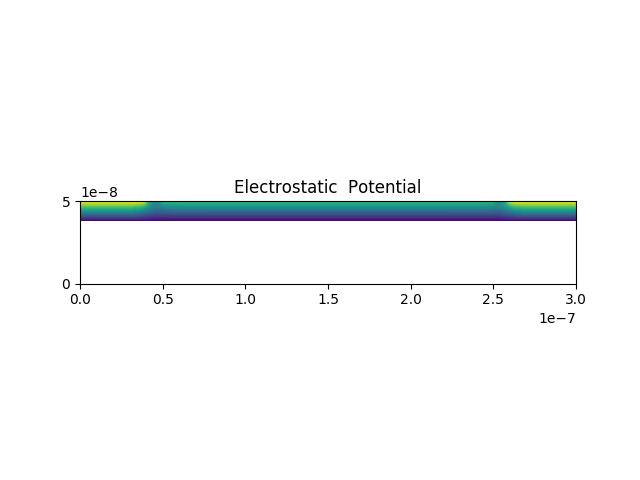
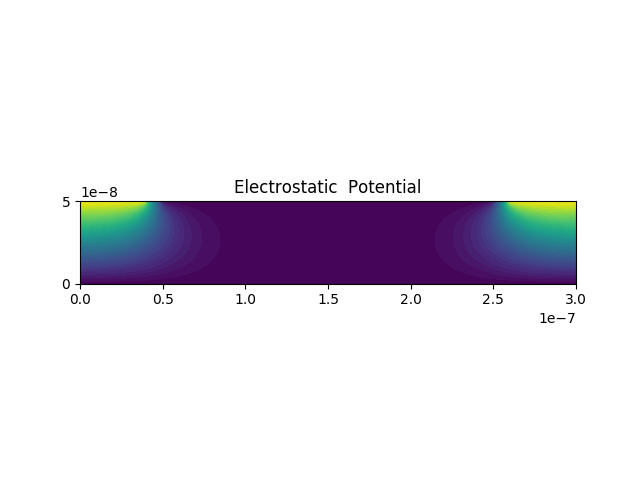
improve Readme and inversion layer potential

Changed region(s): [[0.125, 0.4062, 0.9062, 0.5938]]

diff --git a/schrodinger_poisson/poisson_bcs.py b/schrodinger_poisson/poisson_bcs.py
@@ -24,11 +24,13 @@ def poissonSolver(mesh, dopant, device, cons):
 
     class Channel(SubDomain):
         def inside(self, x, on_boundary):
-            return between(x[1], (device.oxyde, device.oxyde + device.channel))
+            return between(x[1], (0, device.yfi))
 
+    """
     class BottomOxyde(SubDomain):
         def inside(self, x, on_boundary):
             return between(x[1], (0, device.oxyde))
+    """
 
     """
     class Substrate(SubDomain):
@@ -38,66 +40,68 @@ def poissonSolver(mesh, dopant, device, cons):
 
     class Gate(SubDomain):
         def inside(self, x, on_boundary):
-            return near(x[1], device.yfi) and on_boundary and (device.gate_ini <= x[0] and x[0] <= device.gate_fin)
+            return near(x[1], device.yfi) and (device.gate_ini <= x[0] and x[0] <= device.gate_fin)
 
-    """
     class Drain(SubDomain):
         def inside(self, x, on_boundary):
-            return near(x[0], 0) and on_boundary and (device.oxyde < x[1] and x[1] <= (device.channel + device.oxyde))
+            return near(x[0], 0) and (0 < x[1] and x[1] <= device.yfi)
     """
-
     class Drain(SubDomain):
         def inside(self, x, on_boundary):
             return near(x[1], device.yfi) and on_boundary and (0 < x[0] and x[0] <= device.src)
-
     """
+
     class Source(SubDomain):
         def inside(self, x, on_boundary):
-            return near(x[0], device.xfi) and on_boundary and (device.oxyde < x[1] and x[1] <= (device.channel + device.oxyde))
-    """
+            return near(x[0], device.xfi) and (0 < x[1] and x[1] <= device.yfi)
 
+    """
     class Source(SubDomain):
         def inside(self, x, on_boundary):
             return near(x[1], device.yfi) and on_boundary and (device.drain <= x[0] and x[0] < device.xfi)
+    """
 
     class Bottom(SubDomain):
         def inside(self, x, on_boundary):
             return near(x[1], 0) and on_boundary
 
+    """
     class OxydeSemiconductor(SubDomain):
         def inside(self, x, on_boundary):
             return near(x[1], device.oxyde)
-
     """
+
     class Nuemann(SubDomain):
         def inside(self, x, on_boundary):
-            return on_boundary and ((0 <= x[0] and x[0] < device.gate_ini) or (device.gate_fin < x[0] and x[0] <= device.xfi)) and near(x[1], 0)
+            return on_boundary and ((0 <= x[0] and x[0] < device.gate_ini) or (device.gate_fin < x[0] and x[0] <= device.xfi)) and near(x[1], device.yfi)
     """
-
     class Nuemann(SubDomain):
         def inside(self, x, on_boundary):
             return near(x[0], 0) or near(x[0], device.xfi) or (device.src < x[0] and x[0] < device.gate_ini and near(x[1], device.yfi)) or (device.gate_fin < x[0] and x[0] < device.drain and near(x[1], device.yfi))
+    """
 
+    """
     class OxydeSide(SubDomain):
         def inside(self, x, on_boundary):
             return on_boundary and (0 < x[1] and x[1] < device.oxyde)
+    """
 
     channel = Channel()
-    bottomoxyde = BottomOxyde()
+    #bottomoxyde = BottomOxyde()
     gate = Gate()
     drain = Drain()
     source = Source()
     bottom = Bottom()
-    oxydesemiconductor = OxydeSemiconductor()
+    #oxydesemiconductor = OxydeSemiconductor()
     nuemann = Nuemann()
-    oxydeside = OxydeSide()
+    #oxydeside = OxydeSide()
     # other = Other()
 
     # Initialize mesh function for interior domains
     domains = CellFunction("size_t", mesh)
     domains.set_all(0)
     channel.mark(domains, 1)
-    bottomoxyde.mark(domains, 2)
+    #bottomoxyde.mark(domains, 2)
 
     # Initialize mesh function for boundary domains
     boundaries = FacetFunction("size_t", mesh)
@@ -106,9 +110,9 @@ def poissonSolver(mesh, dopant, device, cons):
     drain.mark(boundaries, 2)
     source.mark(boundaries, 3)
     bottom.mark(boundaries, 4)
-    oxydesemiconductor.mark(boundaries, 5)
-    nuemann.mark(boundaries, 6)
-    oxydeside.mark(boundaries, 7)
+    #oxydesemiconductor.mark(boundaries, 5)
+    nuemann.mark(boundaries, 5)
+    #oxydeside.mark(boundaries, 7)
     #other.mark(boundaries, 5)
 
     V = FunctionSpace(mesh, 'CG', 1)
@@ -125,7 +129,7 @@ def poissonSolver(mesh, dopant, device, cons):
     u_bottom = Constant(u_bottom)
     
 
-    bc = [DirichletBC(V, u_gate, boundaries, 1) ,DirichletBC(V, u_drain, boundaries, 2),DirichletBC(V, u_source, boundaries, 3),  DirichletBC(V, u_bottom, boundaries, 5)]
+    bc = [DirichletBC(V, u_gate, boundaries, 1) ,DirichletBC(V, u_drain, boundaries, 2),DirichletBC(V, u_source, boundaries, 3),  DirichletBC(V, u_bottom, boundaries, 4)]
 
     # Define new measures associated with the interior domains and
     # exterior boundaries
@@ -159,9 +163,183 @@ def poissonSolver(mesh, dopant, device, cons):
     sio2_eps = 3.8
     y = Constant(2)
 
-    F = inner(ge_eps*grad(u), grad(v))*dx(1) + inner(sio2_eps*grad(u), grad(v))*dx(2) -zero*v*ds(4) -zero*v*ds(6) -zero*v*ds(7)
+    F = inner(ge_eps*grad(u), grad(v))*dx(1) -zero*v*ds(5)
 
-    L = cons.Q*y*v*dx(1) - cons.Q*y*v*dx(2)
+    L = cons.Q*y*v*dx(1)
+    # - ((eps * (u_gate - u)/ 10**-9))*v*ds(1)
+
+    # Compute solution
+    solve(F - L == 0, u, bc)
+    # solve(F == 0, u, bc)
+
+    u = interpolate(u, V)
+
+    plot(u, title = "Electrostatic  Potential")
+    plt.savefig("electrostatic_potential.png")
+
+    # Save solution in VTK format
+    file = File("poisson.pvd")
+    file << u
+
+    print("finish!!!!!!!!!!!!!!!")
+    
+
+    return u
+
+def poissonSolverTest(mesh, dopant, device, cons):
+
+    class Channel(SubDomain):
+        def inside(self, x, on_boundary):
+            return between(x[1], (0, device.yfi))
+
+    """
+    class BottomOxyde(SubDomain):
+        def inside(self, x, on_boundary):
+            return between(x[1], (0, device.oxyde))
+    """
+
+    """
+    class Substrate(SubDomain):
+        def inside(self, x, on_boundary):
+            return between(x[1], (device.channel+device.oxyde, device.yfi))
+    """
+
+    class Gate(SubDomain):
+        def inside(self, x, on_boundary):
+            return near(x[1], device.yfi) and (device.gate_ini <= x[0] and x[0] <= device.gate_fin)
+    """
+    class Drain(SubDomain):
+        def inside(self, x, on_boundary):
+            return near(x[0], 0) and (0 < x[1] and x[1] <= device.yfi)
+    """
+
+    class Source(SubDomain):
+        def inside(self, x, on_boundary):
+            return near(x[1], device.yfi) and on_boundary and (0 <= x[0] and x[0] <= device.src)
+
+    """
+    class Source(SubDomain):
+        def inside(self, x, on_boundary):
+            return near(x[0], device.xfi) and (0 < x[1] and x[1] <= device.yfi)
+    """
+
+    
+    class Drain(SubDomain):
+        def inside(self, x, on_boundary):
+            return near(x[1], device.yfi) and on_boundary and (device.drain <= x[0] and x[0] <= device.xfi)
+    
+
+    class Bottom(SubDomain):
+        def inside(self, x, on_boundary):
+            return near(x[1], 0) and on_boundary
+
+    """
+    class OxydeSemiconductor(SubDomain):
+        def inside(self, x, on_boundary):
+            return near(x[1], device.oxyde)
+    """
+
+    class Nuemann(SubDomain):
+        def inside(self, x, on_boundary):
+            return on_boundary and ((device.src < x[0] and x[0] < device.gate_ini) or (device.gate_fin < x[0] and x[0] < device.drain)) and near(x[1], device.yfi)
+
+    class Side(SubDomain):
+        def inside(self, x, on_boundary):
+            return on_boundary and (0 < x[0] and x[0] < device.yfi) and (near(x[0], device.xfi) or near(x[0] , 0))
+    """
+    class Nuemann(SubDomain):
+        def inside(self, x, on_boundary):
+            return near(x[0], 0) or near(x[0], device.xfi) or (device.src < x[0] and x[0] < device.gate_ini and near(x[1], device.yfi)) or (device.gate_fin < x[0] and x[0] < device.drain and near(x[1], device.yfi))
+    """
+
+    """
+    class OxydeSide(SubDomain):
+        def inside(self, x, on_boundary):
+            return on_boundary and (0 < x[1] and x[1] < device.oxyde)
+    """
+
+    channel = Channel()
+    #bottomoxyde = BottomOxyde()
+    gate = Gate()
+    drain = Drain()
+    source = Source()
+    bottom = Bottom()
+    #oxydesemiconductor = OxydeSemiconductor()
+    nuemann = Nuemann()
+    side = Side()
+    #oxydeside = OxydeSide()
+    # other = Other()
+
+    # Initialize mesh function for interior domains
+    domains = CellFunction("size_t", mesh)
+    domains.set_all(0)
+    channel.mark(domains, 1)
+    #bottomoxyde.mark(domains, 2)
+
+    # Initialize mesh function for boundary domains
+    boundaries = FacetFunction("size_t", mesh)
+    boundaries.set_all(0)
+    gate.mark(boundaries, 1)
+    drain.mark(boundaries, 2)
+    source.mark(boundaries, 3)
+    bottom.mark(boundaries, 4)
+    #oxydesemiconductor.mark(boundaries, 5)
+    nuemann.mark(boundaries, 5)
+    side.mark(boundaries, 6)
+    #oxydeside.mark(boundaries, 7)
+    #other.mark(boundaries, 5)
+
+    V = FunctionSpace(mesh, 'CG', 1)
+
+    applied_volatage = 0.0
+    u_gate = bias.bias(device, "Schottky", applied_volatage)
+    u_drain = bias.bias(device, "Ohmic", 0.0)
+    u_source = bias.bias(device, "Ohmic", 0.0)
+    u_bottom = bias.bias(device, "Schottky", 0.0)
+
+    u_gate = Constant(u_gate)
+    u_drain = Constant(u_drain)
+    u_source = Constant(u_source)
+    u_bottom = Constant(u_bottom)
+    
+
+    bc = [DirichletBC(V, u_gate, boundaries, 1) ,DirichletBC(V, u_drain, boundaries, 2),DirichletBC(V, u_source, boundaries, 3),  DirichletBC(V, u_bottom, boundaries, 4)]
+
+    # Define new measures associated with the interior domains and
+    # exterior boundaries
+    dx = Measure("dx", subdomain_data=domains)
+    ds = Measure("ds", subdomain_data=boundaries)
+
+    # define new measure associated with boudaries
+    zero = Constant(0.0)
+
+    # we have to consider Nueman condition, but it must be zero
+    # according to gauss's law electric potential is zero in boudary condition.
+    # that's why Nueman condition will be zero
+    # Diricril condition shows potential itself
+    # it well be q x Vg as diriclet condition.
+
+    # Difine variational problem
+    u = Function(V)
+    v = TestFunction(V)
+
+    f = Function(V)
+    f.vector().set_local(dopant)
+    
+    #f.vector()[:] = np.array([i for i in dopant])
+    #f = Constant(5.0)
+
+    # SiO2 dielectric constant = 3.8
+    # SiO2 width is around 1nm
+    # Insulator charge = 1.0 E+19
+    # Germanium dielectric constant : 16
+    ge_eps = 16
+    sio2_eps = 3.8
+    y = Constant(2)
+
+    F = inner(ge_eps*grad(u), grad(v))*dx(1) -zero*v*ds(5) -zero*v*ds(6)
+
+    L = cons.Q*y*v*dx(1)
     # - ((eps * (u_gate - u)/ 10**-9))*v*ds(1)
 
     # Compute solution

diff --git a/schrodinger_poisson/main.py b/schrodinger_poisson/main.py
@@ -162,7 +162,7 @@ if __name__ == "__main__":
 
     #plotter.electron_density(device, rectangle_mesh, dopant)
 
-    potential = poisson_bcs.poissonSolver(rectangle_mesh, dopant, device, constant)
+    potential = poisson_bcs.poissonSolverTest(rectangle_mesh, dopant, device, constant)
     #plotter.plot_potential_distribution(device, rectangle_mesh, potential)
 
     """
@@ -176,7 +176,7 @@ if __name__ == "__main__":
     potential = np.reshape(temp, (device.nx+1,device.ny+1))
     new_potential = np.reshape(new_potential, (device.nx+1,device.ny+1))
     """
-    #mesh = device.IntervalMeshCreate()
+    mesh = device.IntervalMeshCreate()
     # interval_mesh = device.IntervalMeshCreate()
     # schrodinger_fenics.schrodinger_2d(rectangle_mesh, potential, device, constant)
     #schrodinger_fenics.schrodinger(mesh, potential, device, constant)

diff --git a/README.md b/README.md
@@ -15,11 +15,16 @@
 
 ### Boundary function for Dirichlet condition
 
-![2019-01-04 18 40 29](https://user-images.githubusercontent.com/27273842/50681867-499d8980-1050-11e9-9008-99c54d6142d6.png)
+Using FEniCS which is a science compuing library to calculate with fenite element method for solving partial difference equation. The goal is solving self-consistent problem about poisson equation and schrodinger equation in an inversion layer of Germanium channel ultran thin mosfet.
 
- ```python
-f = Expression(’x[0]>=0 && x[1]>=0 ? pow(x[0], 2) : 2’, degree=2)
- ```
 
-![poisson](https://user-images.githubusercontent.com/27273842/50679244-0c33fe80-1046-11e9-9e0e-53160b3e77c4.png)
+![2019-01-17 0 58 29](https://user-images.githubusercontent.com/27273842/51261624-f20a0100-19f3-11e9-82f7-1f2022c3261f.png)
+
+we have to consider boudary conditon based on semiconductor physics not only considering electron distribution.
+
+And we assume the device structure is like below
+
+![2019-01-17 1 17 24](https://user-images.githubusercontent.com/27273842/51262424-af492880-19f5-11e9-9aa2-9bbdb9a36334.png)
+
+this project is still going on. Eventually, I'm going to apply to electron transport problem with Monte Carlo Simlation.
 
